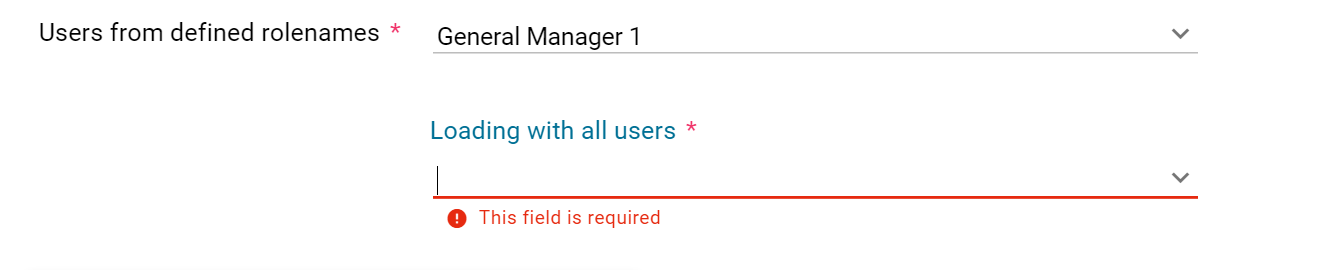
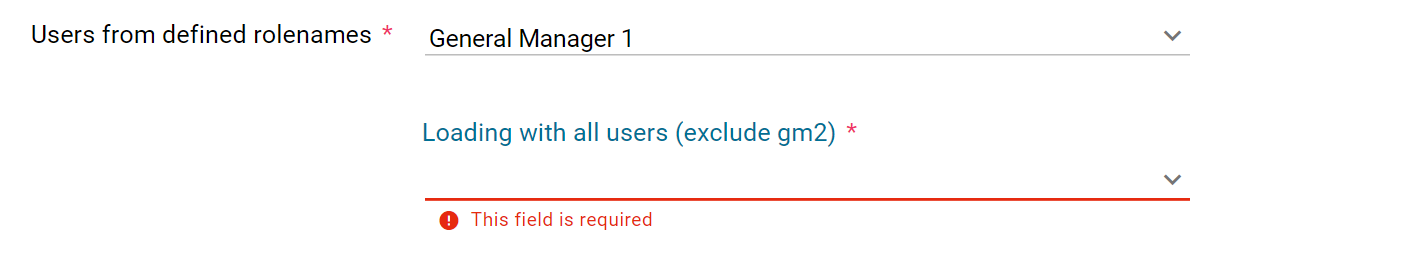
IVYPORTAL-9477: Create a User Selection Combobox Component - Update document and examples + findUsers

diff --git a/AxonIvyPortal/PortalKit/src/ch/ivy/addon/portalkit/service/CleanUpObsoletedUserDataService.java b/AxonIvyPortal/PortalKit/src/ch/ivy/addon/portalkit/service/CleanUpObsoletedUserDataService.java
@@ -16,16 +16,14 @@ import ch.ivy.addon.portalkit.bo.CaseColumnsConfiguration;
 import ch.ivy.addon.portalkit.bo.ColumnsConfiguration;
 import ch.ivy.addon.portalkit.bo.TaskColumnsConfiguration;
 import ch.ivy.addon.portalkit.casefilter.CaseFilterData;
-import ch.ivy.addon.portalkit.constant.PortalConstants;
 import ch.ivy.addon.portalkit.dto.UserDTO;
 import ch.ivy.addon.portalkit.persistence.domain.UserProcess;
 import ch.ivy.addon.portalkit.statistics.StatisticChart;
 import ch.ivy.addon.portalkit.taskfilter.TaskFilterData;
+import ch.ivy.addon.portalkit.util.UserUtils;
 import ch.ivyteam.ivy.business.data.store.BusinessDataInfo;
 import ch.ivyteam.ivy.environment.Ivy;
-import ch.ivyteam.ivy.process.call.SubProcessCall;
 import ch.ivyteam.ivy.security.SecurityManagerFactory;
-import ch.ivyteam.ivy.server.ServerFactory;
 
 public class CleanUpObsoletedUserDataService {
 
@@ -35,17 +33,12 @@ public class CleanUpObsoletedUserDataService {
   private List<String> userNames;
   private Long applicationId;
 
-  @SuppressWarnings("unchecked")
   public void cleanUpData() {
     StopWatch stopWatch = new StopWatch();
     stopWatch.start();
     Ivy.log().info("***** CLEAN_UP_JOB: Started Clean up data");
     try {
-      currentUsers = ServerFactory.getServer().getSecurityManager().executeAsSystem(() -> {
-        return SubProcessCall.withPath(PortalConstants.SECURITY_SERVICE_CALLABLE).withStartName("findUsers")
-            .call(Ivy.request().getApplication()).get("users", List.class);
-      });
-
+      currentUsers = UserUtils.findUsers("", 0, -1, null, null);
     } catch (Exception e) {
       Ivy.log().error("CLEAN_UP_JOB: Can't get list of users", e);
       return;

diff --git a/Documentation/portal-guide/source/portal-developer-guide/components/additional-components.rst b/Documentation/portal-guide/source/portal-developer-guide/components/additional-components.rst
@@ -276,7 +276,7 @@ You can include this component to any page. Below is an example code for 2 label
 
       <ic:ch.ivy.addon.portalkit.component.UserSelection 
             componentId="user-by-role-autocomplete"
-            hasRoleNames="#{data.definedRoleNames}"
+            fromRoleNames="#{data.definedRoleNames}"
             selectedUser="#{data.selectedUserForDefinedRoles}"
             isRequired="true"
             autoCompleteStyleClass="width-100"
@@ -288,10 +288,11 @@ You can include this component to any page. Below is an example code for 2 label
       <ic:ch.ivy.addon.portalkit.component.UserSelection 
             componentId="all-user-autocomplete"
             hightlight="false" selectedUser="#{data.selectedUser}"
-            label="Loading with all users"
+            label="Loading with all users (exclude gm2)"
             labelPanelStyleClass="ui-g-3 ui-xl-2 ui-md-4 ui-sm-12"
             autoCompleteStyleClass="width-100"
             autoCompletePanelStyleClass="ui-g-5 ui-md-4 ui-sm-12 margin-top-40"
+            excludedUsernames="#{data.excludedUsernames}"
             isRequired="true" floatingLabel="true" />
 
 Please refer to ``UserSelectionExample.xhtml`` in ``portal-developer-examples`` for more details.
